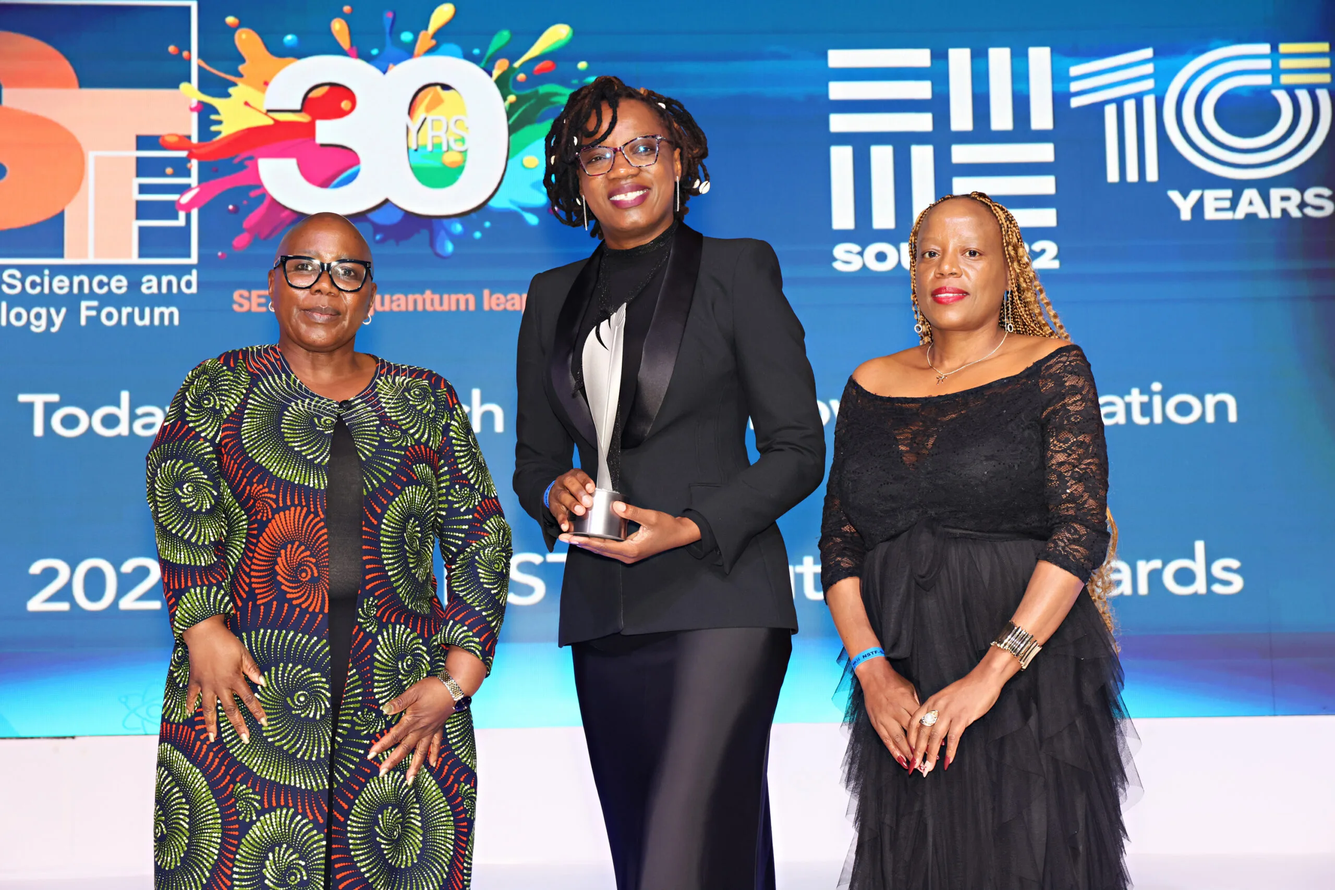
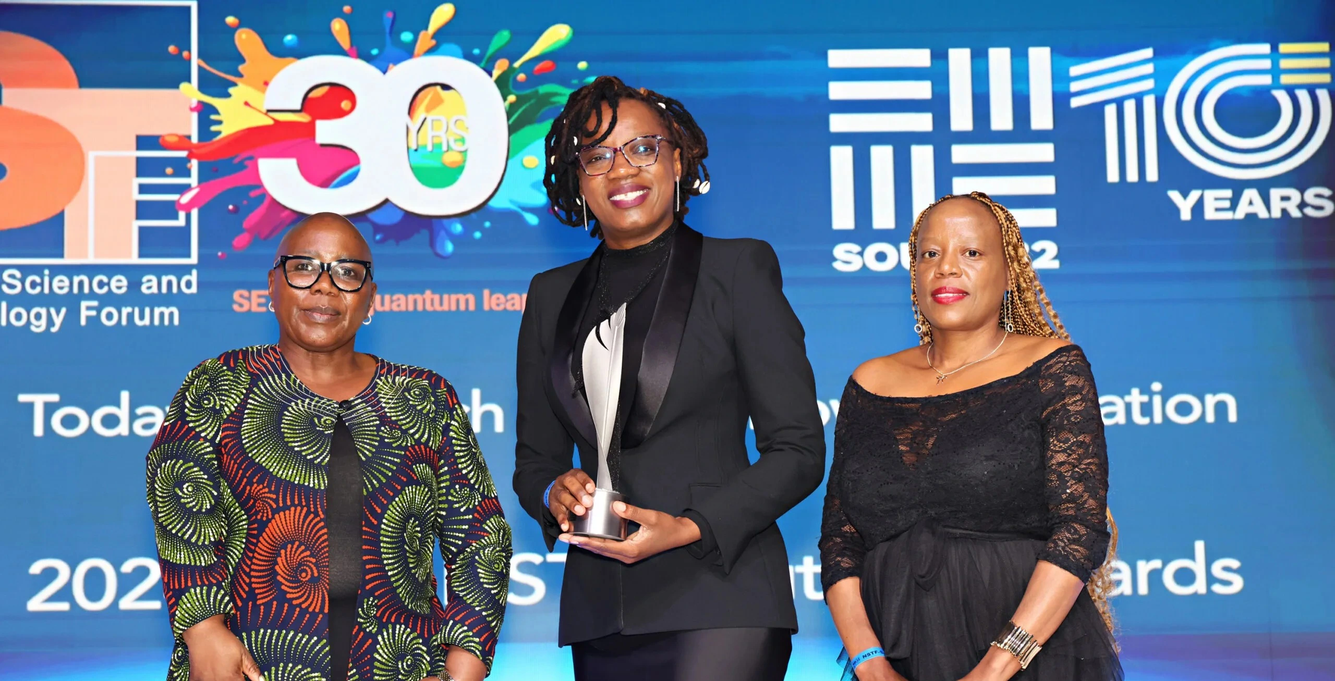
update

diff --git a/app/publications/page.js b/app/publications/page.js
@@ -2,41 +2,90 @@ import Hero from "../../components/hero";
 
 export default function Publications() {
   const publicationsByYear = [
-    {
-      year: "2025",
-      papers: [
-        {
-          authors:
-            "Author Surname Initials, Author Surname Initials, Author Surname Initials",
-          title: "Publication title placeholder goes here in sentence case",
-          journal: "Journal Name",
-          details: "2025. doi: 00.0000/example.000000.",
-          pdf: "#",
-        },
-        {
-          authors:
-            "Author Surname Initials, Author Surname Initials, Author Surname Initials",
-          title: "Second publication title placeholder goes here",
-          journal: "Journal Name",
-          details: "2025. doi: 00.0000/example.000000.",
-          pdf: "#",
-        },
-      ],
-    },
-    {
-      year: "2024",
-      papers: [
-        {
-          authors:
-            "Author Surname Initials, Author Surname Initials, Author Surname Initials",
-          title: "Publication title placeholder goes here in sentence case",
-          journal: "Journal Name",
-          details: "2024. doi: 00.0000/example.000000.",
-          pdf: "#",
-        },
-      ],
-    },
-  ];
+  {
+    year: "2026",
+    papers: [
+      {
+        authors:
+          "Irere H, Dangarembizi R, Mukaremera L, Dambuza IM",
+        title:
+          "The emergence of neuroinvasive Cryptococcus: why eucalyptus-rich regions, especially in Africa, may be facing greater risk",
+        journal: "Frontiers in Cellular and Infection Microbiology",
+        details: "2026;15:1727496. doi: 10.3389/fcimb.2025.1727496.",
+        linkto: "https://www.frontiersin.org/journals/cellular-and-infection-microbiology/articles/10.3389/fcimb.2025.1727496/full",
+      },
+    ],
+  },
+  {
+    year: "2025",
+    papers: [
+      {
+        authors:
+          "Dangarembizi R, Awala AN, de Lange A",
+        title:
+          "Neuroinflammation in fungal infections: from pathogen recognition to pathological manifestations",
+        journal: "Disease Models & Mechanisms",
+        details: "2025;18(9):dmm052344. doi: 10.1242/dmm.052344.",
+        linkto: "https://journals.biologists.com/dmm/article/18/9/dmm052344/369429/Neuroinflammation-in-fungal-infections-from",
+      },
+      {
+        authors:
+          "Gifford A, Patel SA, Matlakala M, Dangarembizi R, Warris A",
+        title:
+          "Neurological sequelae after paediatric cryptococcal meningitis",
+        journal: "Journal of Fungi",
+        details: "2025;11(11):767. doi: 10.3390/jof11110767.",
+        linkto: "https://www.mdpi.com/2309-608X/11/11/767",
+      },
+      {
+        authors:
+          "Dangarembizi R, Hoving JC, Boulware DR, Colombo AL, Govender NP, Oladele R, Dat VQ, Schwartz IS, Brown GD",
+        title:
+          "AIDS-related mycoses: advances, challenges, and future directions",
+        journal: "Trends in Microbiology",
+        details: "2025;33(2):141-144. doi: 10.1016/j.tim.2024.12.004.",
+        linkto: "https://www.cell.com/trends/microbiology/abstract/S0966-842X(24)00319-6",
+      },
+    ],
+  },
+  {
+    year: "2023",
+    papers: [
+      {
+        authors:
+          "Dangarembizi R, Drummond RA",
+        title:
+          "Immune-related neurodegeneration in the midbrain causes pulmonary dysfunction in murine cryptococcal IRIS",
+        journal: "Trends in Neurosciences",
+        details: "2023. doi: 10.1016/j.tins.2023.09.005.",
+        linkto: "https://www.sciencedirect.com/science/article/abs/pii/S0166223623002230",
+      },
+      {
+        authors:
+          "Dangarembizi R, Wasserman S, Hoving JC",
+        title:
+          "Emerging and re-emerging fungal threats in Africa",
+        journal: "Parasite Immunology",
+        details: "2023;45(2):e12953. doi: 10.1111/pim.12953.",
+        linkto: "https://onlinelibrary.wiley.com/doi/10.1111/pim.12953",
+      },
+    ],
+  },
+  {
+    year: "2021",
+    papers: [
+      {
+        authors:
+          "Dangarembizi R",
+        title:
+          "Reimagining the future of African brain health: perspectives for basic research on the pathogenesis of cryptococcal meningitis",
+        journal: "Brain, Behavior, & Immunity - Health",
+        details: "2021;18:100388. doi: 10.1016/j.bbih.2021.100388.",
+        linkto: "https://pmc.ncbi.nlm.nih.gov/articles/PMC8605210/",
+      },
+    ],
+  },
+];
 
   return (
     <>
@@ -46,9 +95,9 @@ export default function Publications() {
         subtitle="Selected research outputs from the Crypto Lab"
       />
 
-      <main className="w-full bg-white py-20 px-6 md:px-16 lg:px-32">
+      <main className="w-full bg-crypto-sand py-20 px-6 md:px-16 lg:px-32">
         <div className="max-w-5xl mx-auto">
-          <p className="font-futura text-crypto-red uppercase text-sm tracking-widest mb-3">
+          <p className="font-futura text-crypto-ochre uppercase text-sm tracking-widest mb-3">
             Research Outputs
           </p>
 
@@ -67,7 +116,7 @@ export default function Publications() {
                   {group.papers.map((paper, index) => (
                     <article
                       key={index}
-                      className="border-l-4 border-crypto-red pl-5 pb-8 border-b border-crypto-earth/20"
+                      className="border-l-4 border-crypto-ochre pl-5 pb-4 border-b border-crypto-earth/20"
                     >
                       <p className="font-futura text-lg text-crypto-coal leading-relaxed">
                         {paper.authors}, {group.year},{" "}
@@ -76,13 +125,15 @@ export default function Publications() {
                           {paper.journal}
                         </strong>{" "}
                         {paper.details}{" "}
+                        <br></br>
+                        <br></br>
                         <a
-                          href={paper.pdf}
+                          href={paper.linkto}
                           target="_blank"
                           rel="noopener noreferrer"
-                          className="text-crypto-red underline hover:text-crypto-ochre transition"
+                          className="text-crypto-gold underline hover:text-crypto-ochre transitions"
                         >
-                          pdf
+                          Read →
                         </a>
                       </p>
                     </article>

diff --git a/app/news/page.js b/app/news/page.js
@@ -26,18 +26,18 @@ export default function News() {
       link: "https://nstf.org.za/2025/09/22/dr-rachael-dangarembizi/",
     },
     {
+      image: "/images/story4.webp",
+      date: "10 April 2026",
+      title: "Cape Town researchers lead R100 million initiative to fight deadly fungal infections",
+      text: "Researchers at the University of Cape Town are part of a major international effort backed by about R100 million to combat fungal infections that kill an estimated 2.5 million people worldwide each year...",
+      link: "https://iol.co.za/capeargus/news/2026-04-10-cape-town-researchers-lead-r100-million-initiative-to-fight-deadly-fungal-infections/",
+    },
+    {
       image: "/images/story3.webp",
       date: "14 April 2026",
       title: "UCT researchers join multi-million-pound fungal fight",
-      text: "Researchers at the University of Cape Town are playing a leading role in a significant international collaboration to fast-track the understanding of fungal diseases...",
+      text: "Researchers at the University of Cape Town are playing a leading role in a significant international collaboration to fast-track the understanding of fungal diseases that claim about 2.5 million lives each year. The funding of £4.5 million (approximately R100 million)...",
       link: "https://www.news.uct.ac.za/article/-2026-04-14-uct-researchers-join-multi-million-pound-fungal-fight",
-    },
-    {
-      image: "/images/story4.webp",
-      date: "10 April 2025",
-      title: "Cape Town researchers lead R100 million initiative to fight deadly fungal infections",
-      text: "Researchers at the University of Cape Town are part of a major international effort backed by about R100 million to combat fungal infections that kill an estimated 2.5 million people worldwide each year...",
-      link: "#",
     },
   ];
 
@@ -60,22 +60,43 @@ export default function News() {
       />
 
       {/* FEATURED STORIES */}
-      <section className="w-full bg-crypto-sand py-20 px-8 md:px-16 lg:px-32">
-        <h2 className="font-gothic text-crypto-earth text-4xl md:text-5xl font-bold mb-6">
-          Featured Stories
-        </h2>
+      <section className="w-full bg-crypto-desert py-20 px-8 md:px-16 lg:px-32">
+        
+        {/* TITLE + ARROWS */}
+        <div className="flex items-center justify-between mb-10">
+          <h2 className="font-gothic text-crypto-earth text-4xl md:text-5xl font-bold">
+            Featured Stories
+          </h2>
+
+          <div className="flex gap-4">
+            <button
+              onClick={prevSlide}
+              className="w-10 h-10 flex items-center justify-center rounded-full bg-crypto-sand shadow-md hover:bg-crypto-ochre hover:text-white transition-all duration-300 hover:scale-110"
+            >
+              <FaArrowLeft />
+            </button>
+
+            <button
+              onClick={nextSlide}
+              className="w-10 h-10 flex items-center justify-center rounded-full bg-crypto-sand shadow-md hover:bg-crypto-ochre hover:text-white transition-all duration-300 hover:scale-110"
+            >
+              <FaArrowRight />
+            </button>
+          </div>
+        </div>
 
         <div className="grid grid-cols-1 md:grid-cols-3 gap-12">
           {visibleStories.map((story, index) => (
             <article
               key={`${story.title}-${index}`}
-              className="bg-crypto-sand rounded-lg p-4 shadow-md"
+            className="bg-crypto-sand rounded-lg p-4 shadow-md h-[520px] flex flex-col"
             >
-              <div className="relative h-56 w-full mb-4 rounded-md overflow-hidden">
+              <div className="relative w-full h-[180px] mb-4 rounded-md overflow-hidden flex-shrink-0">
                 <Image
                   src={story.image}
                   alt={story.title}
                   fill
+                  sizes="(max-width: 768px) 100vw, 33vw"
                   className="object-cover"
                 />
               </div>
@@ -101,27 +122,10 @@ export default function News() {
             </article>
           ))}
         </div>
-
-        {/* BIG CENTERED ARROWS */}
-        <div className="flex justify-center gap-10 mt-14">
-          <button
-            onClick={prevSlide}
-            className="w-12 h-12 flex items-center justify-center rounded-full bg-crypto-sand shadow-md hover:bg-crypto-ochre hover:text-white transition-all duration-300 hover:scale-110"
-          >
-            <FaArrowLeft className="text-2xl" />
-          </button>
-
-          <button
-            onClick={nextSlide}
-            className="w-12 h-12 flex items-center justify-center rounded-full bg-crypto-sand shadow-md hover:bg-crypto-ochre hover:text-white transition-all duration-300 hover:scale-110"
-          >
-            <FaArrowRight className="text-2xl" />
-          </button>
-        </div>
       </section>
 
       {/* UPDATES */}
-      <div className="w-full bg-crypto-desert py-20 px-8 md:px-16 lg:px-32">
+      <div className="w-full bg-crypto-sand py-20 px-8 md:px-16 lg:px-32">
         <h2 className="font-gothic text-4xl md:text-5xl font-bold mb-6">
           Lab News & Updates
         </h2>
@@ -141,21 +145,8 @@ export default function News() {
               link: "#",
             },
           ].map((item, index) => (
-            <li
-              key={index}
-              className="group relative border-l-4 border-crypto-red pl-4 pr-8 hover:border-crypto-ochre cursor-pointer"
-              onMouseMove={(e) => {
-                const rect = e.currentTarget.getBoundingClientRect();
-                const emoji = e.currentTarget.querySelector(".emoji");
-                if (emoji) {
-                  emoji.style.left = `${e.clientX - rect.left}px`;
-                  emoji.style.top = `${e.clientY - rect.top}px`;
-                }
-              }}
-            >
-              <span className="emoji pointer-events-none absolute opacity-0 text-2xl transition group-hover:opacity-100 -translate-x-1/2 -translate-y-full">
-                🥳
-              </span>
+            <li key={index}
+              className="group relative border-l-4 border-crypto-red pl-4 pr-8 hover:border-crypto-ochre cursor-pointer">
 
               <a href={item.link}>
                 <p className="text-2xl group-hover:text-crypto-ochre">
